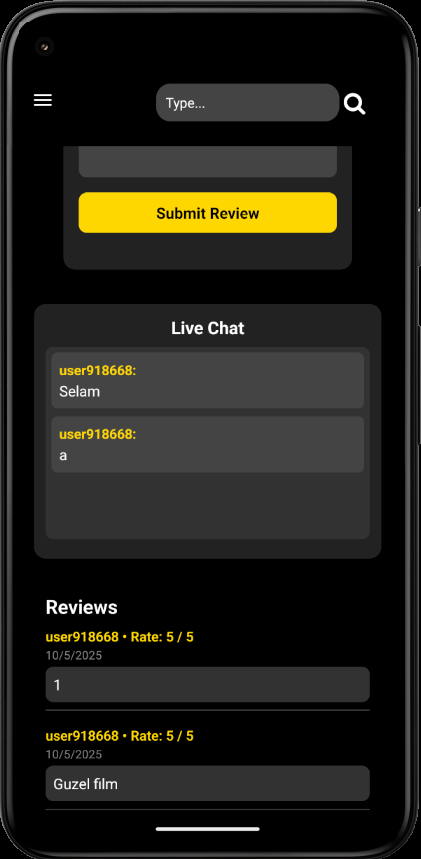
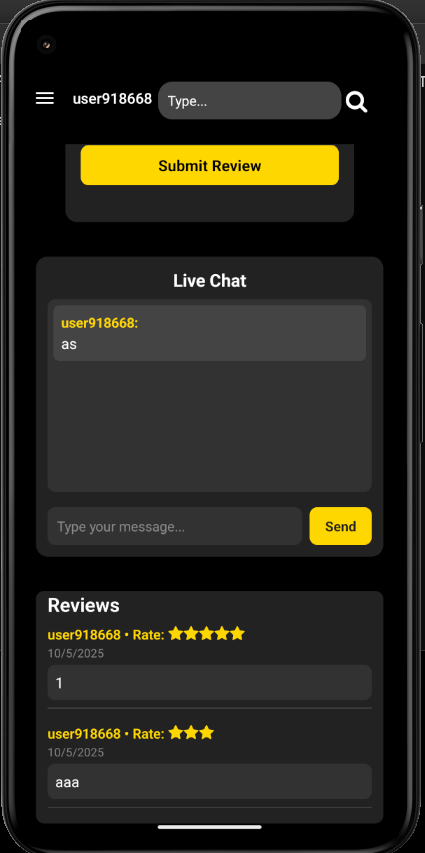
up

diff --git a/components/ReviewList.jsx b/components/ReviewList.jsx
@@ -1,25 +1,33 @@
 
-import React from "react";
-import { View, Text, StyleSheet } from "react-native";
+import AntDesign from '@expo/vector-icons/AntDesign';
+import { StyleSheet, Text, View } from "react-native";
 
 export default function ReviewList({ reviews }) {
+
+  // Remove direct access to reviews[0].rating
+  // console.log(reviews);
+
   return (
     <View style={styles.container}>
       <Text style={styles.title}>Reviews</Text>
-      {reviews.length === 0 ? (
+      {(!reviews || reviews.length === 0) ? (
         <Text style={styles.noReviews}>No reviews yet.</Text>
       ) : (
         <View>
           {reviews.map((review) => (
-            <View key={review._id} style={styles.reviewItem}>
-              <Text style={styles.userInfo}>
-                {review.user.username} • Rate: {review.rating} / 5
-              </Text>
-              <Text style={styles.date}>{new Date(review.createdAt).toLocaleDateString()}</Text>
-              <View style={styles.commentBox}>
-                <Text style={styles.comment}>{review.comment}</Text>
+            review && (
+              <View key={review._id} style={styles.reviewItem}>
+                <Text style={styles.userInfo}>
+                  {review.user?.username} • Rate: {[...Array(review.rating || 0)].map((_, i) => (
+                    <AntDesign key={i} name="star" size={16} color="#FFD700" />
+                  ))}
+                </Text>
+                <Text style={styles.date}>{review.createdAt ? new Date(review.createdAt).toLocaleDateString() : ''}</Text>
+                <View style={styles.commentBox}>
+                  <Text style={styles.comment}>{review.comment}</Text>
+                </View>
               </View>
-            </View>
+            )
           ))}
         </View>
       )}
@@ -33,6 +41,8 @@ const styles = StyleSheet.create({
     maxWidth: 640,
     marginTop: 24,
     paddingHorizontal: 12,
+    backgroundColor: "#222",
+    borderRadius: 8,
   },
   title: {
     fontSize: 20,
